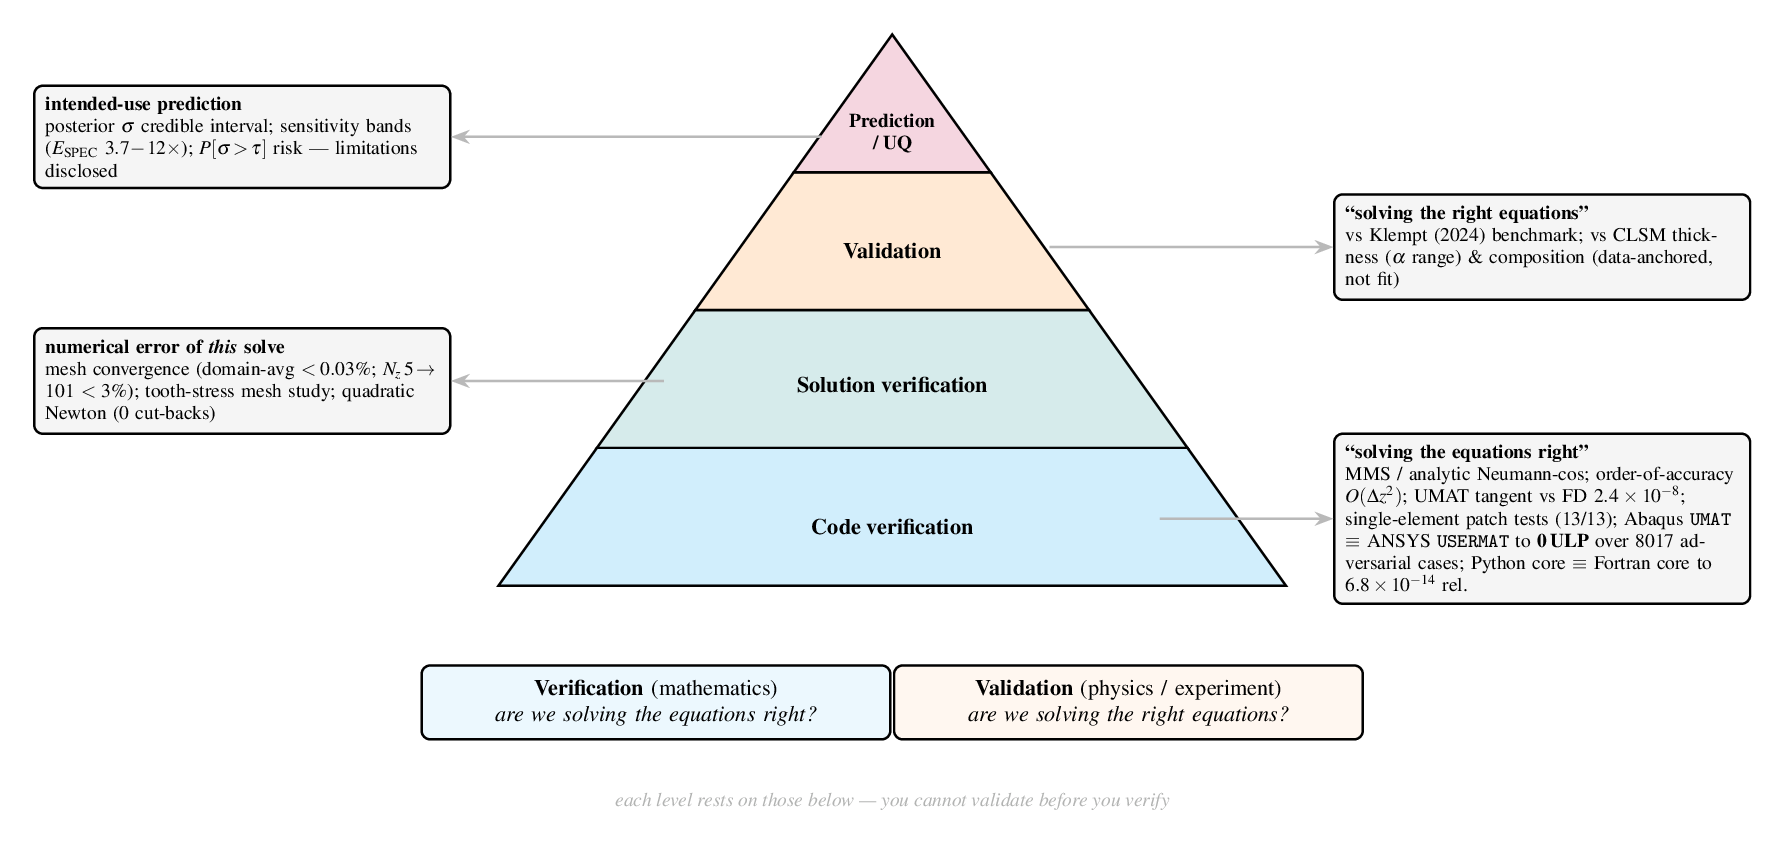
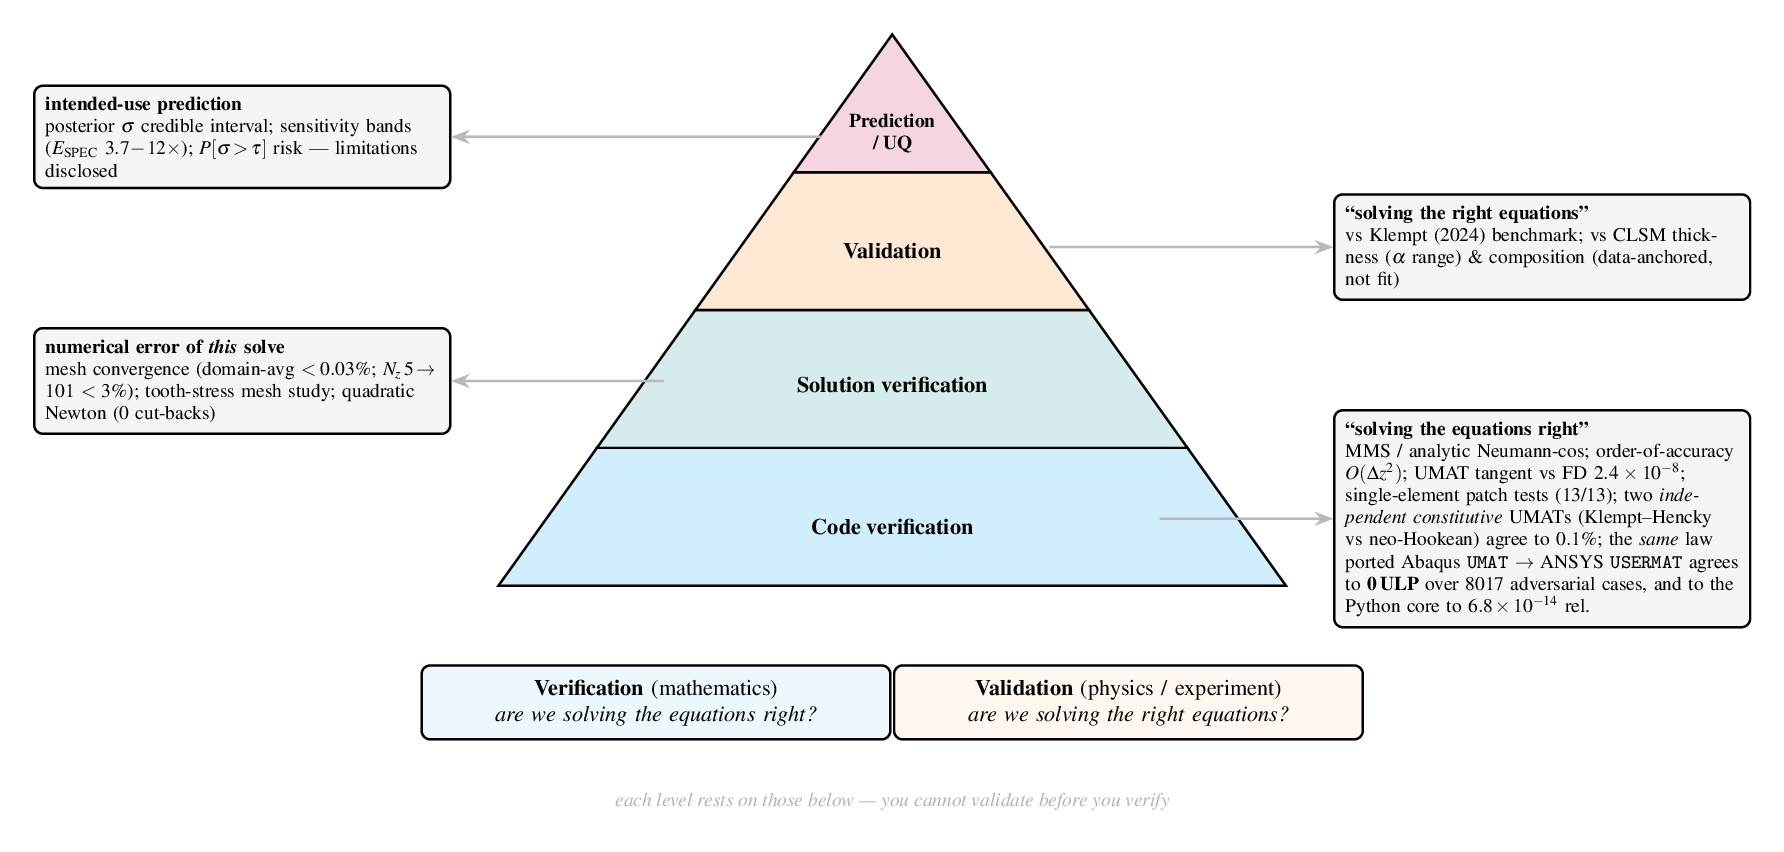
ch5_flow: separate the two cross-checks in the V&V figure
My previous commit replaced "dual-UMAT cross-check (0.1%)" with the 0 ULP
Abaqus/ANSYS port result. That conflated two different checks. VERIFICATION_
SENSITIVITY_LIMITATIONS.md V3 records 0.1% for two *independent constitutive*
implementations (Klempt-Hencky elastic vs neo-Hookean elastic, both Fg=(1+a)I)
agreeing on the constrained growth-induced stress -- a physics-level agreement
between different laws. The 0 ULP result is a different claim: the *same* law
ported between solvers, where bit-identity is the expected bar.

Dropping the 0.1% lost a genuine piece of evidence. The code-verification tier
now carries both, labelled so they cannot be read as the same check.
Claude-Session: https://claude.ai/code/session_01K6pJdunkzTZQE9k5TYqi7R

Changed region(s): [[0.7399, 0.4577, 0.9865, 0.7629]]

diff --git a/ch5_flow/flow_vv_hierarchy.tex b/ch5_flow/flow_vv_hierarchy.tex
@@ -29,8 +29,10 @@
   \textbf{``solving the equations right''}\\
   MMS / analytic Neumann-$\cos$; order-of-accuracy $O(\Delta z^2)$;
   UMAT tangent vs FD $2.4\times10^{-8}$; single-element patch tests (13/13);
-  Abaqus \texttt{UMAT} $\equiv$ ANSYS \texttt{USERMAT} to \textbf{0\,ULP} over 8017
-  adversarial cases; Python core $\equiv$ Fortran core to $6.8\times10^{-14}$ rel.};
+  two \emph{independent constitutive} UMATs (Klempt--Hencky vs neo-Hookean)
+  agree to $0.1\%$; the \emph{same} law ported Abaqus \texttt{UMAT}
+  $\to$ ANSYS \texttt{USERMAT} agrees to \textbf{0\,ULP} over 8017 adversarial
+  cases, and to the Python core to $6.8\times10^{-14}$ rel.};
 \draw[lead] (3.4,0.85) -- (c1.west);
 
 \node[call, anchor=east] at (-5.6,2.6) (c2) {%
